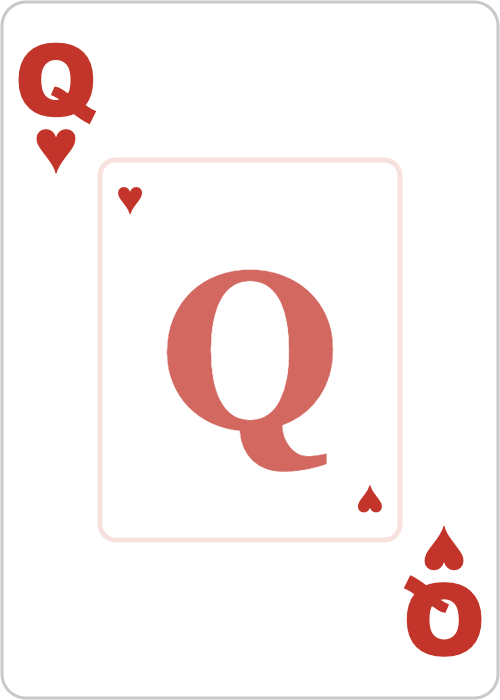
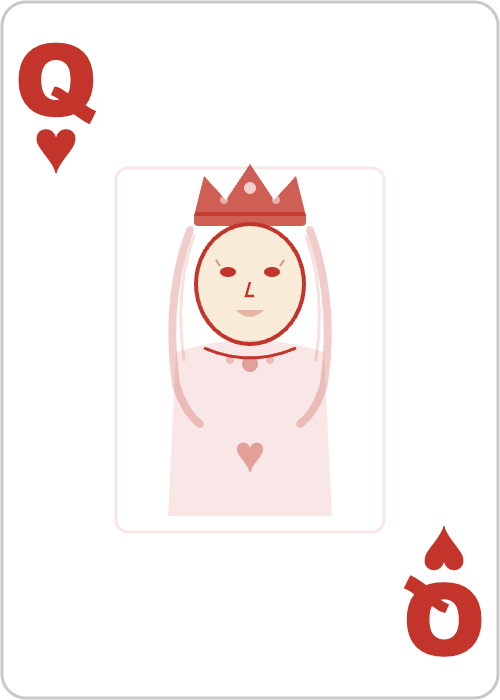
feat: stylized geometric face card illustrations and ornamental aces
Replace plain letter-only face cards with minimalist SVG figure
illustrations: Jack (hat with feather, smiling face, tunic), Queen
(crown, flowing hair, elegant eyes, necklace), King (tall crown,
stern brows, beard, scepter with orb). Ace cards now feature a
decorative double frame with corner flourishes and wave accents.

Changed region(s): [[0.18, 0.21, 0.81, 0.78]]

diff --git a/scripts/render-cards.js b/scripts/render-cards.js
@@ -38,6 +38,180 @@ const PIP_LAYOUTS = {
   10: [[30, 17], [70, 17], [50, 28], [30, 39], [70, 39], [30, 61, true], [70, 61, true], [50, 72, true], [30, 83, true], [70, 83, true]],
 };
 
+function makeJackContent(cx, color, symbol) {
+  let svg = '';
+  // Subtle frame
+  svg += `<rect x="58" y="84" width="134" height="182" rx="6" fill="none" stroke="${color}" stroke-width="1.5" opacity="0.12"/>`;
+
+  // === HAT ===
+  svg += `<rect x="90" y="90" width="70" height="22" rx="4" fill="${color}" opacity="0.8"/>`;
+  svg += `<rect x="80" y="108" width="90" height="8" rx="4" fill="${color}" opacity="0.8"/>`;
+  // Hat band
+  svg += `<line x1="90" y1="103" x2="160" y2="103" stroke="white" stroke-width="1.5" opacity="0.3"/>`;
+  // Feather
+  svg += `<path d="M148 92 Q164 76 158 58" fill="none" stroke="${color}" stroke-width="2.5" stroke-linecap="round" opacity="0.65"/>`;
+  svg += `<path d="M148 92 Q158 80 150 65" fill="none" stroke="${color}" stroke-width="1.5" stroke-linecap="round" opacity="0.4"/>`;
+
+  // === FACE ===
+  svg += `<ellipse cx="${cx}" cy="140" rx="28" ry="32" fill="#FAEBD7" stroke="${color}" stroke-width="2"/>`;
+  // Eyes
+  svg += `<circle cx="114" cy="134" r="3" fill="${color}"/>`;
+  svg += `<circle cx="136" cy="134" r="3" fill="${color}"/>`;
+  // Nose
+  svg += `<path d="M125 140 L123 148 L127 148" fill="none" stroke="${color}" stroke-width="1.3"/>`;
+  // Smile
+  svg += `<path d="M117 155 Q125 162 133 155" fill="none" stroke="${color}" stroke-width="1.5"/>`;
+
+  // === COLLAR / TUNIC ===
+  svg += `<path d="M92 172 L108 168 L125 178 L142 168 L158 172 L162 258 L88 258 Z" fill="${color}" opacity="0.15"/>`;
+  svg += `<path d="M108 168 L125 190 L142 168" fill="none" stroke="${color}" stroke-width="2"/>`;
+  // Buttons
+  svg += `<circle cx="${cx}" cy="200" r="2.5" fill="${color}" opacity="0.35"/>`;
+  svg += `<circle cx="${cx}" cy="215" r="2.5" fill="${color}" opacity="0.35"/>`;
+  // Suit on chest
+  svg += `<text x="${cx}" y="242" style="font-family:serif;font-size:24px;fill:${color};text-anchor:middle;dominant-baseline:central;opacity:0.5">${symbol}</text>`;
+
+  return svg;
+}
+
+function makeQueenContent(cx, color, symbol) {
+  let svg = '';
+  svg += `<rect x="58" y="84" width="134" height="182" rx="6" fill="none" stroke="${color}" stroke-width="1.5" opacity="0.12"/>`;
+
+  // === CROWN ===
+  svg += `<path d="M97 108 L102 88 L113 100 L125 82 L137 100 L148 88 L153 108 Z" fill="${color}" opacity="0.8"/>`;
+  svg += `<rect x="97" y="106" width="56" height="7" rx="2" fill="${color}" opacity="0.8"/>`;
+  // Crown jewels
+  svg += `<circle cx="125" cy="94" r="3" fill="white" opacity="0.7"/>`;
+  svg += `<circle cx="112" cy="100" r="2" fill="white" opacity="0.5"/>`;
+  svg += `<circle cx="138" cy="100" r="2" fill="white" opacity="0.5"/>`;
+
+  // === HAIR (flowing curves) ===
+  svg += `<path d="M95 115 Q82 150 88 192 Q92 206 100 212" fill="none" stroke="${color}" stroke-width="4" opacity="0.25" stroke-linecap="round"/>`;
+  svg += `<path d="M155 115 Q168 150 162 192 Q158 206 150 212" fill="none" stroke="${color}" stroke-width="4" opacity="0.25" stroke-linecap="round"/>`;
+  // Inner hair strands
+  svg += `<path d="M97 118 Q87 145 92 180" fill="none" stroke="${color}" stroke-width="1.5" opacity="0.15" stroke-linecap="round"/>`;
+  svg += `<path d="M153 118 Q163 145 158 180" fill="none" stroke="${color}" stroke-width="1.5" opacity="0.15" stroke-linecap="round"/>`;
+
+  // === FACE ===
+  svg += `<ellipse cx="${cx}" cy="142" rx="27" ry="30" fill="#FAEBD7" stroke="${color}" stroke-width="2"/>`;
+  // Eyes (elegant ovals)
+  svg += `<ellipse cx="114" cy="136" rx="4" ry="2.5" fill="${color}"/>`;
+  svg += `<ellipse cx="136" cy="136" rx="4" ry="2.5" fill="${color}"/>`;
+  // Eyelashes
+  svg += `<path d="M110 133 L108 130" stroke="${color}" stroke-width="1" opacity="0.5"/>`;
+  svg += `<path d="M140 133 L142 130" stroke="${color}" stroke-width="1" opacity="0.5"/>`;
+  // Nose
+  svg += `<path d="M125 141 L123 148 L127 148" fill="none" stroke="${color}" stroke-width="1.2"/>`;
+  // Lips
+  svg += `<path d="M118 155 Q125 162 132 155" fill="${color}" opacity="0.3"/>`;
+
+  // === NECKLINE / DRESS ===
+  svg += `<path d="M88 176 Q125 164 162 176 L166 258 L84 258 Z" fill="${color}" opacity="0.12"/>`;
+  svg += `<path d="M102 174 Q125 184 148 174" fill="none" stroke="${color}" stroke-width="1.5"/>`;
+  // Necklace
+  svg += `<circle cx="${cx}" cy="182" r="4" fill="${color}" opacity="0.4"/>`;
+  svg += `<circle cx="115" cy="180" r="2" fill="${color}" opacity="0.25"/>`;
+  svg += `<circle cx="135" cy="180" r="2" fill="${color}" opacity="0.25"/>`;
+  // Suit symbol
+  svg += `<text x="${cx}" y="228" style="font-family:serif;font-size:24px;fill:${color};text-anchor:middle;dominant-baseline:central;opacity:0.4">${symbol}</text>`;
+
+  return svg;
+}
+
+function makeKingContent(cx, color, symbol) {
+  let svg = '';
+  svg += `<rect x="58" y="84" width="134" height="182" rx="6" fill="none" stroke="${color}" stroke-width="1.5" opacity="0.12"/>`;
+
+  // === LARGE CROWN (5 points) ===
+  svg += `<path d="M86 112 L93 82 L107 100 L119 78 L125 94 L131 78 L143 100 L157 82 L164 112 Z" fill="${color}" opacity="0.8"/>`;
+  svg += `<rect x="86" y="110" width="78" height="9" rx="2" fill="${color}" opacity="0.8"/>`;
+  // Crown jewels
+  svg += `<circle cx="108" cy="100" r="2.5" fill="white" opacity="0.6"/>`;
+  svg += `<circle cx="125" cy="92" r="3" fill="white" opacity="0.7"/>`;
+  svg += `<circle cx="142" cy="100" r="2.5" fill="white" opacity="0.6"/>`;
+
+  // === FACE ===
+  svg += `<ellipse cx="${cx}" cy="144" rx="29" ry="31" fill="#FAEBD7" stroke="${color}" stroke-width="2"/>`;
+  // Eyes
+  svg += `<circle cx="113" cy="136" r="3" fill="${color}"/>`;
+  svg += `<circle cx="137" cy="136" r="3" fill="${color}"/>`;
+  // Stern eyebrows
+  svg += `<line x1="106" y1="129" x2="119" y2="131" stroke="${color}" stroke-width="2.5"/>`;
+  svg += `<line x1="131" y1="131" x2="144" y2="129" stroke="${color}" stroke-width="2.5"/>`;
+  // Nose
+  svg += `<path d="M125 140 L122 148 L128 148" fill="none" stroke="${color}" stroke-width="1.4"/>`;
+  // Straight mouth
+  svg += `<line x1="117" y1="156" x2="133" y2="156" stroke="${color}" stroke-width="1.5"/>`;
+
+  // === BEARD ===
+  svg += `<path d="M100 160 Q97 180 108 194 Q125 206 142 194 Q153 180 150 160" fill="${color}" opacity="0.18" stroke="${color}" stroke-width="1.8"/>`;
+  // Beard texture lines
+  svg += `<path d="M110 168 Q112 182 115 190" fill="none" stroke="${color}" stroke-width="0.8" opacity="0.2"/>`;
+  svg += `<path d="M125 170 L125 196" fill="none" stroke="${color}" stroke-width="0.8" opacity="0.2"/>`;
+  svg += `<path d="M140 168 Q138 182 135 190" fill="none" stroke="${color}" stroke-width="0.8" opacity="0.2"/>`;
+
+  // === ROBE / SHOULDERS ===
+  svg += `<path d="M78 200 Q125 186 172 200 L176 258 L74 258 Z" fill="${color}" opacity="0.15"/>`;
+  svg += `<path d="M102 198 L125 212 L148 198" fill="none" stroke="${color}" stroke-width="2"/>`;
+  // Robe trim
+  svg += `<line x1="125" y1="212" x2="125" y2="250" stroke="${color}" stroke-width="1.5" opacity="0.25"/>`;
+
+  // === SCEPTER ===
+  svg += `<line x1="172" y1="102" x2="172" y2="254" stroke="${color}" stroke-width="3" opacity="0.5"/>`;
+  svg += `<circle cx="172" cy="97" r="7" fill="${color}" opacity="0.55"/>`;
+  svg += `<circle cx="172" cy="97" r="3" fill="white" opacity="0.4"/>`;
+  // Cross on scepter orb
+  svg += `<line x1="172" y1="90" x2="172" y2="86" stroke="white" stroke-width="1.5" opacity="0.35"/>`;
+  svg += `<line x1="169" y1="88" x2="175" y2="88" stroke="white" stroke-width="1.5" opacity="0.35"/>`;
+
+  // Suit symbol on chest
+  svg += `<text x="${cx}" y="238" style="font-family:serif;font-size:22px;fill:${color};text-anchor:middle;dominant-baseline:central;opacity:0.4">${symbol}</text>`;
+
+  return svg;
+}
+
+function makeAceContent(cx, cy, color, symbol) {
+  let svg = '';
+
+  // === ORNAMENTAL DOUBLE FRAME ===
+  svg += `<rect x="55" y="82" width="140" height="186" rx="8" fill="none" stroke="${color}" stroke-width="2" opacity="0.25"/>`;
+  svg += `<rect x="63" y="90" width="124" height="170" rx="5" fill="none" stroke="${color}" stroke-width="1" opacity="0.18"/>`;
+
+  // Corner flourishes (decorative scrolls)
+  // Top-left
+  svg += `<path d="M70 96 Q63 90 70 84" fill="none" stroke="${color}" stroke-width="1.5" opacity="0.3"/>`;
+  svg += `<path d="M66 98 Q60 90 55 97" fill="none" stroke="${color}" stroke-width="1.5" opacity="0.3"/>`;
+  // Top-right
+  svg += `<path d="M180 96 Q187 90 180 84" fill="none" stroke="${color}" stroke-width="1.5" opacity="0.3"/>`;
+  svg += `<path d="M184 98 Q190 90 195 97" fill="none" stroke="${color}" stroke-width="1.5" opacity="0.3"/>`;
+  // Bottom-left
+  svg += `<path d="M70 254 Q63 260 70 266" fill="none" stroke="${color}" stroke-width="1.5" opacity="0.3"/>`;
+  svg += `<path d="M66 252 Q60 260 55 253" fill="none" stroke="${color}" stroke-width="1.5" opacity="0.3"/>`;
+  // Bottom-right
+  svg += `<path d="M180 254 Q187 260 180 266" fill="none" stroke="${color}" stroke-width="1.5" opacity="0.3"/>`;
+  svg += `<path d="M184 252 Q190 260 195 253" fill="none" stroke="${color}" stroke-width="1.5" opacity="0.3"/>`;
+
+  // Decorative wave lines above and below symbol
+  svg += `<path d="M85 148 Q105 140 125 148 Q145 140 165 148" fill="none" stroke="${color}" stroke-width="1.2" opacity="0.2"/>`;
+  svg += `<path d="M85 202 Q105 210 125 202 Q145 210 165 202" fill="none" stroke="${color}" stroke-width="1.2" opacity="0.2"/>`;
+
+  // Diamond accents flanking symbol
+  svg += `<polygon points="78,175 83,170 88,175 83,180" fill="${color}" opacity="0.15"/>`;
+  svg += `<polygon points="162,175 167,170 172,175 167,180" fill="${color}" opacity="0.15"/>`;
+
+  // Large centered suit symbol
+  svg += `<text x="${cx}" y="${cy}" style="font-family:serif;font-size:105px;fill:${color};text-anchor:middle;dominant-baseline:central">${symbol}</text>`;
+
+  // Small suit symbols in frame corners
+  svg += `<text x="74" y="104" style="font-family:serif;font-size:14px;fill:${color};text-anchor:middle;dominant-baseline:central;opacity:0.28">${symbol}</text>`;
+  svg += `<text x="176" y="104" style="font-family:serif;font-size:14px;fill:${color};text-anchor:middle;dominant-baseline:central;opacity:0.28">${symbol}</text>`;
+  svg += `<g transform="rotate(180 74 246)"><text x="74" y="246" style="font-family:serif;font-size:14px;fill:${color};text-anchor:middle;dominant-baseline:central;opacity:0.28">${symbol}</text></g>`;
+  svg += `<g transform="rotate(180 176 246)"><text x="176" y="246" style="font-family:serif;font-size:14px;fill:${color};text-anchor:middle;dominant-baseline:central;opacity:0.28">${symbol}</text></g>`;
+
+  return svg;
+}
+
 function makeSVG(suit, rank) {
   const s = SUITS[suit];
   const label = RANK_LABELS[rank];
@@ -66,15 +240,11 @@ function makeSVG(suit, rank) {
   const pa = { x: 45, y: 70, w: CARD_W - 90, h: CARD_H - 140 };
 
   if (isAce) {
-    content += `<text x="${CARD_W/2}" y="${CARD_H/2}" style="font-family:serif;font-size:100px;fill:${s.color};text-anchor:middle;dominant-baseline:central">${s.symbol}</text>`;
+    content += makeAceContent(CARD_W / 2, CARD_H / 2, s.color, s.symbol);
   } else if (isFace) {
-    // Decorative frame
-    content += `<rect x="50" y="80" width="${CARD_W-100}" height="${CARD_H-160}" rx="8" ry="8" fill="none" stroke="${s.color}" stroke-width="2.5" opacity="0.15"/>`;
-    // Large letter
-    content += `<text x="${CARD_W/2}" y="${CARD_H/2}" style="font-family:Georgia,'Times New Roman',serif;font-size:110px;font-weight:bold;fill:${s.color};text-anchor:middle;dominant-baseline:central;opacity:0.75">${label}</text>`;
-    // Corner suit decorations
-    content += `<text x="65" y="100" style="font-family:serif;font-size:22px;fill:${s.color};text-anchor:middle;dominant-baseline:central">${s.symbol}</text>`;
-    content += `<g transform="rotate(180 ${CARD_W-65} ${CARD_H-100})"><text x="${CARD_W-65}" y="${CARD_H-100}" style="font-family:serif;font-size:22px;fill:${s.color};text-anchor:middle;dominant-baseline:central">${s.symbol}</text></g>`;
+    if (rank === 'Jack') content += makeJackContent(CARD_W / 2, s.color, s.symbol);
+    else if (rank === 'Queen') content += makeQueenContent(CARD_W / 2, s.color, s.symbol);
+    else if (rank === 'King') content += makeKingContent(CARD_W / 2, s.color, s.symbol);
   } else {
     // Number cards with pips
     const layout = PIP_LAYOUTS[rankNum];
